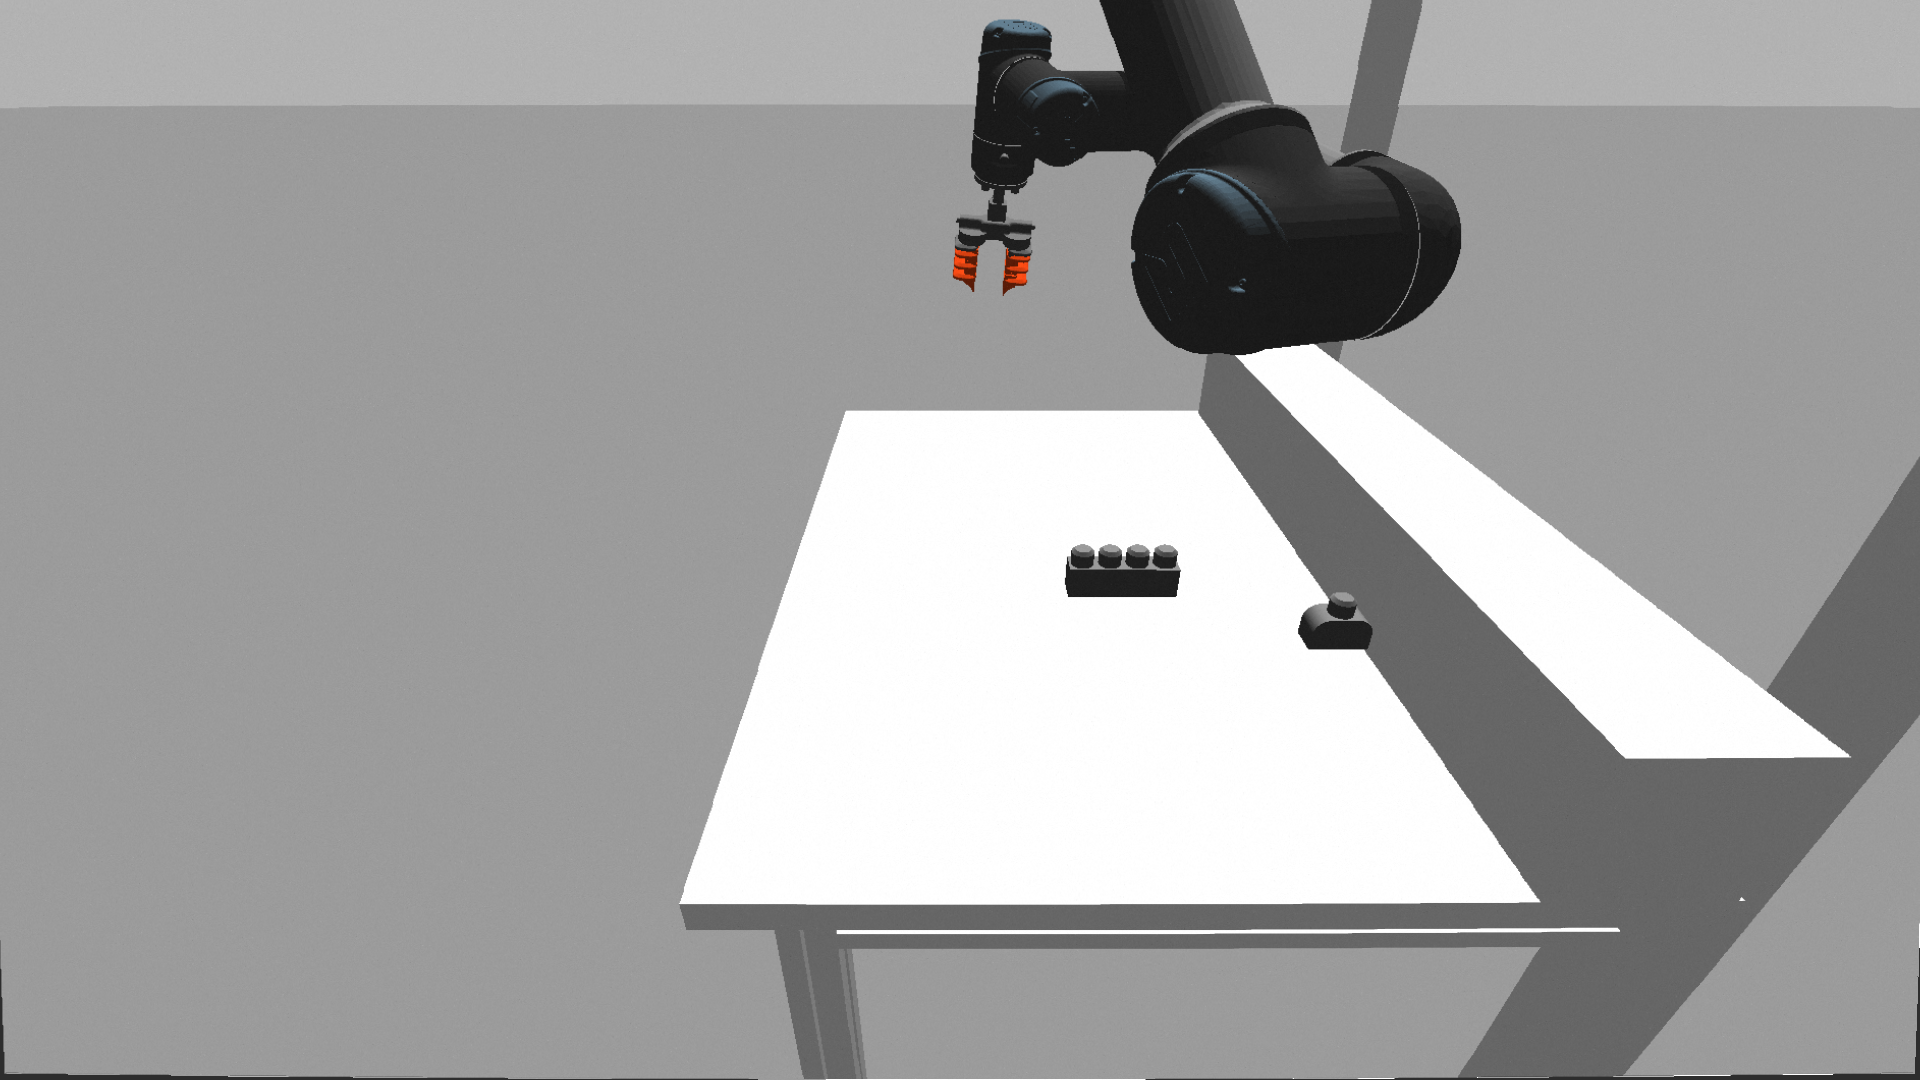
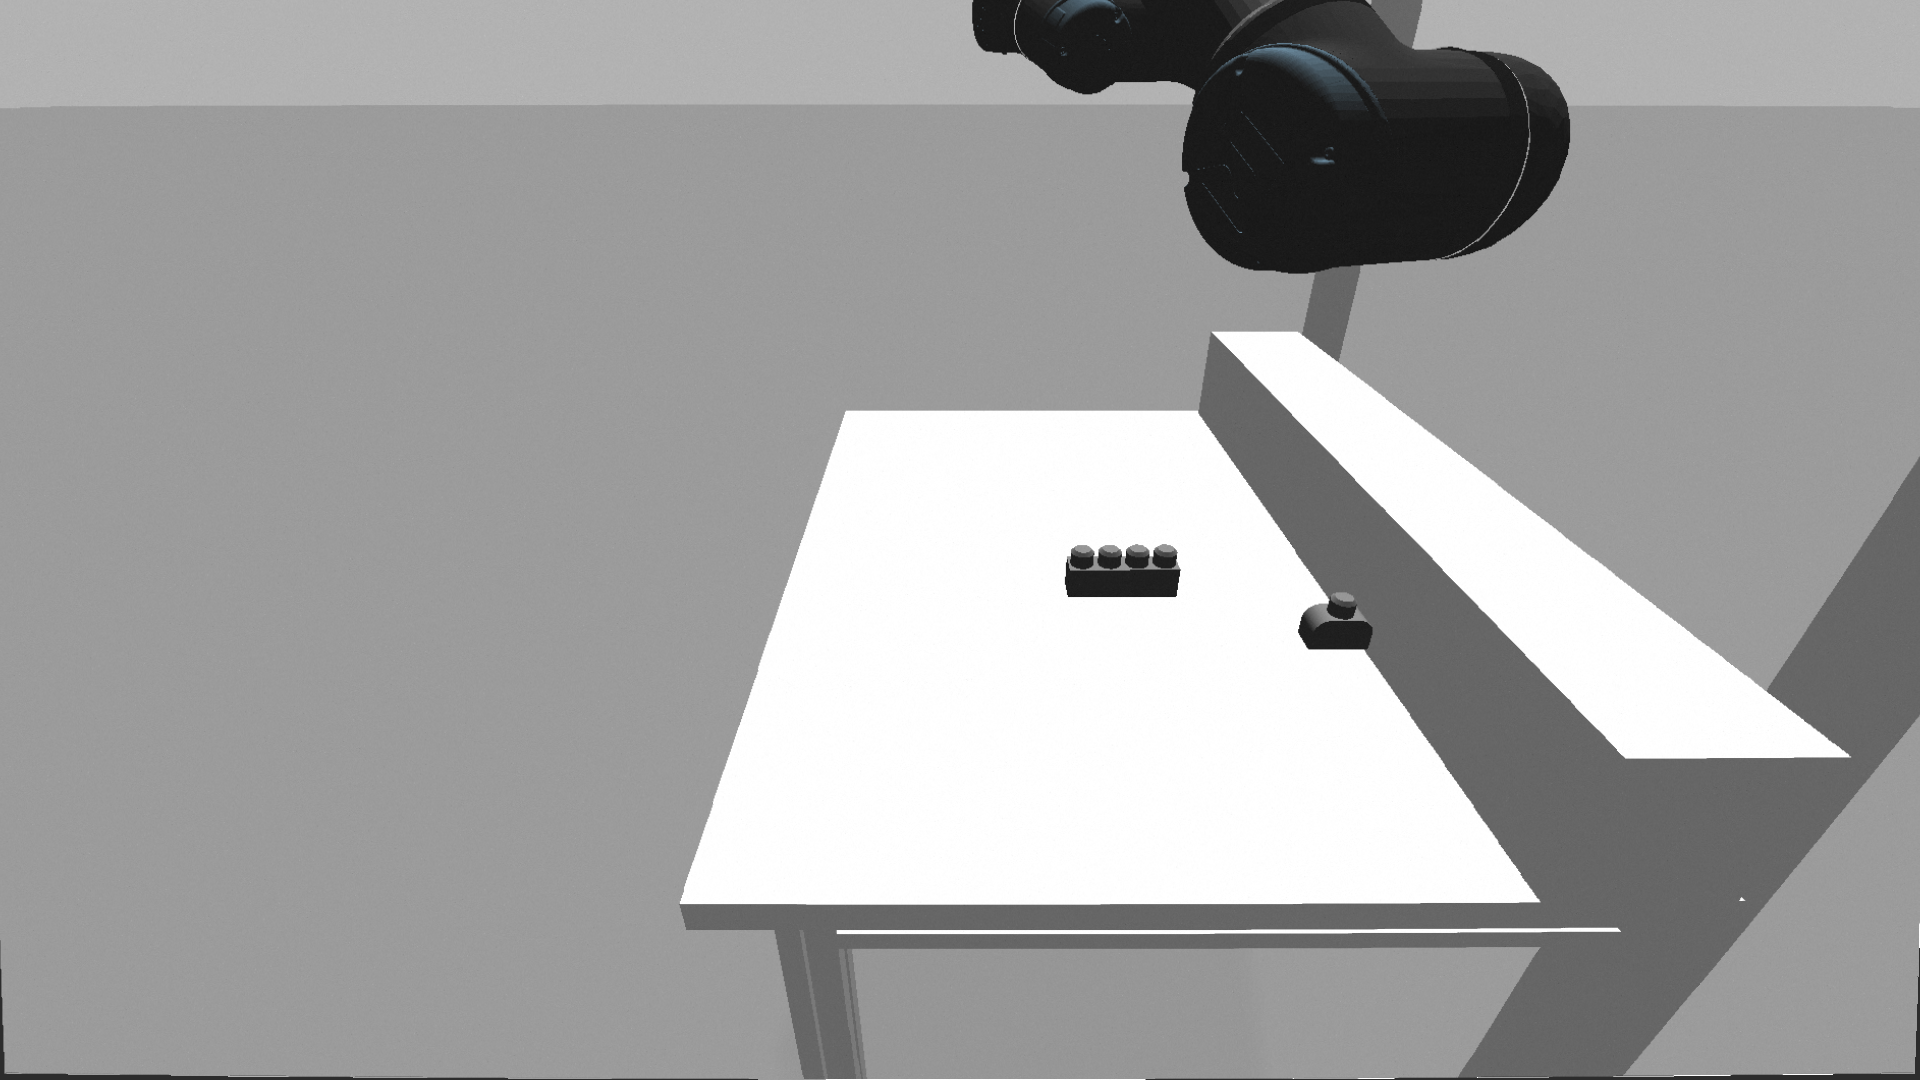
tried manually passing coordinates [NOT WORKING]

Changed region(s): [[0.5, 0.0, 0.8438, 0.3361]]

diff --git a/src/task_planner/task_planner.cpp b/src/task_planner/task_planner.cpp
@@ -11,11 +11,27 @@
 #include "ur5/BoundingBox.h"
 #include "ur5/BlockParams.h"
 
+#include <eigen3/Eigen/Core>
+#include <eigen3/Eigen/Dense>
+#include <eigen3/Eigen/Geometry> 
+
 #include <vector>
 
+using namespace Eigen;
 
 char info_name[] = " [  task_planner  ]:";
 bool debug_mode = false;
+
+bool waitForServiceResponse(ros::ServiceClient &client, ur5::GetBrickPose &srv, int retries = 10, int delay_ms = 1000) {
+    for (int i = 0; i < retries; ++i) {
+        if (client.call(srv)) {
+            return true;
+        }
+        ROS_WARN("%s Waiting for vision node to provide data...", info_name);
+        ros::Duration(delay_ms / 1000.0).sleep();
+    }
+    return false;
+}
 
 
 
@@ -43,20 +59,16 @@ int main(int argc, char **argv)
 	std::vector<ur5::BlockParams> actual_poses;
 
 	// ros::ServiceClient vision_node1 = node.serviceClient<ur5::GetBoundingBoxes>("get_bounding_boxes");
-	ros::ServiceClient vision_node = node.serviceClient<ur5::GetBrickPose>("get_brick_pose");
-	// ros::ServiceClient pointcloud_node = node.serviceClient<ur5::BoundingBoxesToPoses>("bounding_boxes_to_poses");
+	// ros::ServiceClient vision_node = node.serviceClient<ur5::GetBrickPose>("get_brick_pose");
 	ros::ServiceClient desired_poses_node = node.serviceClient<ur5::GetDesiredPoses>("get_desired_poses");
 	ros::ServiceClient motion_planner = node.serviceClient<ur5::MoveBlock>("move_block");
-	vision_node.waitForExistence();
-	//pointcloud_node.waitForExistence();
+	// vision_node.waitForExistence();
 	desired_poses_node.waitForExistence();
 	motion_planner.waitForExistence();
 
-	//ur5::GetBoundingBoxes get_bounding_boxes_service;
-	ur5::GetBrickPose get_brick_pose_service;
-	//ur5::BoundingBoxesToPoses bounding_boxes_to_poses_service;
+	// ur5::GetBrickPose get_brick_pose_service;
 	ur5::GetDesiredPoses get_desired_poses_service;
-	// ur5::MoveBlock move_block_service;
+	ur5::MoveBlock move_block_service;
 
 	ros::param::get("/debug_mode", debug_mode);
 	ROS_INFO("%s task_planner is ready!", info_name);
@@ -79,37 +91,65 @@ int main(int argc, char **argv)
 	// 	ROS_ERROR("%s Failed to call service get_bounding_boxes", info_name);
 	// 	return 1;
 	// }
-	service_exit = vision_node.call(get_brick_pose_service);
+	//service_exit = vision_node.call(get_brick_pose_service);
+	//  service_exit = waitForServiceResponse(vision_node, get_brick_pose_service);
+    // if (!service_exit) {
+    //     ROS_ERROR("%s Failed to call service get_brick_pose_service", info_name);
+    //     return 1;
+    // } else {
+    //     ROS_INFO("get_brick_pose_service obtained!");
+    // }
+
 	
-	if(!service_exit){
-		ROS_ERROR("%s Failed to call service get_brick_pose_service", info_name);
-		return 1;
-	} else {
-		ROS_INFO("get_brick_pose_service obtained!");
-	}
-
-	/// Pointcloud Node
-
-	// if(debug_mode) ROS_INFO("%s Pointcloud phase", info_name);
-
-	// bounding_boxes_to_poses_service.request.dim = get_bounding_boxes_service.response.dim;
-	// bounding_boxes_to_poses_service.request.boxes = get_bounding_boxes_service.response.boxes;
-
-	// service_exit = pointcloud_node.call(bounding_boxes_to_poses_service);
 	// if(!service_exit){
-	// 	ROS_ERROR("%s Failed to call service bounding_boxes_to_poses_service", info_name);
+	// 	ROS_ERROR("%s Failed to call service get_brick_pose_service", info_name);
 	// 	return 1;
+	// } else {
+	// 	ROS_INFO("get_brick_pose_service obtained!");
 	// }
 
-	actual_poses = get_brick_pose_service.response.poses; //pos blocchi visti da vision
 
+	//actual_poses = get_brick_pose_service.response.poses; //pos blocchi visti da vision
+
+
+//Roll pitch and yaw in Radians
+float roll = 0, pitch = 0, yaw = 0.5236;    
+Quaternionf q;
+q = AngleAxisf(roll, Vector3f::UnitX())
+    * AngleAxisf(pitch, Vector3f::UnitY())
+    * AngleAxisf(yaw, Vector3f::UnitZ());
+std::cout << "Quaternion" << std::endl << q.coeffs() << std::endl;
+
+	
+  	// ur5::BlockParams block;
+    // block.label = "X1-Y4-Z2";
+    // block.pose.position.x = 0.4;
+    // block.pose.position.y = 0.4;
+    // block.pose.position.z = 0.87;
+    // block.pose.orientation.x = q.x();
+    // block.pose.orientation.y = q.y();
+    // block.pose.orientation.z = q.z();
+    // block.pose.orientation.w = q.w();
+
+    // actual_poses.push_back(block);
+
+
+	actual_poses.push_back(ur5::BlockParams());
+	actual_poses.at(0).label = "X1-Y1-Z2";
+	actual_poses.at(0).pose.position.x = 0.4;
+	actual_poses.at(0).pose.position.y = 0.4;
+	actual_poses.at(0).pose.position.z = 0.87;
+	actual_poses.at(0).pose.orientation.x = q.x();
+	actual_poses.at(0).pose.orientation.y = q.y();
+	actual_poses.at(0).pose.orientation.z = q.z();
+	actual_poses.at(0).pose.orientation.w = q.w();
 
 	/// Desired Poses Node
 
 	if(debug_mode) ROS_INFO("%s Retrieving desired poses", info_name);
 	ROS_INFO("%s Retrieving desired poses", info_name);
 
-	// get_esired_poses_service.request is empty
+	// get_desired_poses_service.request is empty
 
 	service_exit = desired_poses_node.call(get_desired_poses_service);
 	if(!service_exit){
@@ -157,10 +197,10 @@ ur5::BlockParams actual_block;
 		} else {
 			actual_block = *it;
 
-			// move_block_service.request.start_pose = actual_block;
-			// move_block_service.request.end_pose = desired_block;
+			move_block_service.request.start_pose = actual_block;
+			move_block_service.request.end_pose = desired_block;
 
-			// service_exit = motion_planner.call(move_block_service);
+			service_exit = motion_planner.call(move_block_service);
 			if(!service_exit){
 				ROS_ERROR("%s Failed to call service move_block", info_name);
 				return 1;
@@ -168,9 +208,9 @@ ur5::BlockParams actual_block;
 				ROS_INFO("move_block_service obtained!");
 			}
 
-			// if(!move_block_service.response.success){
-			// 	ROS_WARN("%s motion_planner failed to move block \"%s\"", info_name, desired_block.label.c_str());
-			// } 
+			if(!move_block_service.response.success){
+				ROS_WARN("%s motion_planner failed to move block \"%s\"", info_name, desired_block.label.c_str());
+			} 
 			actual_poses.erase(it);
 		}
 	}
